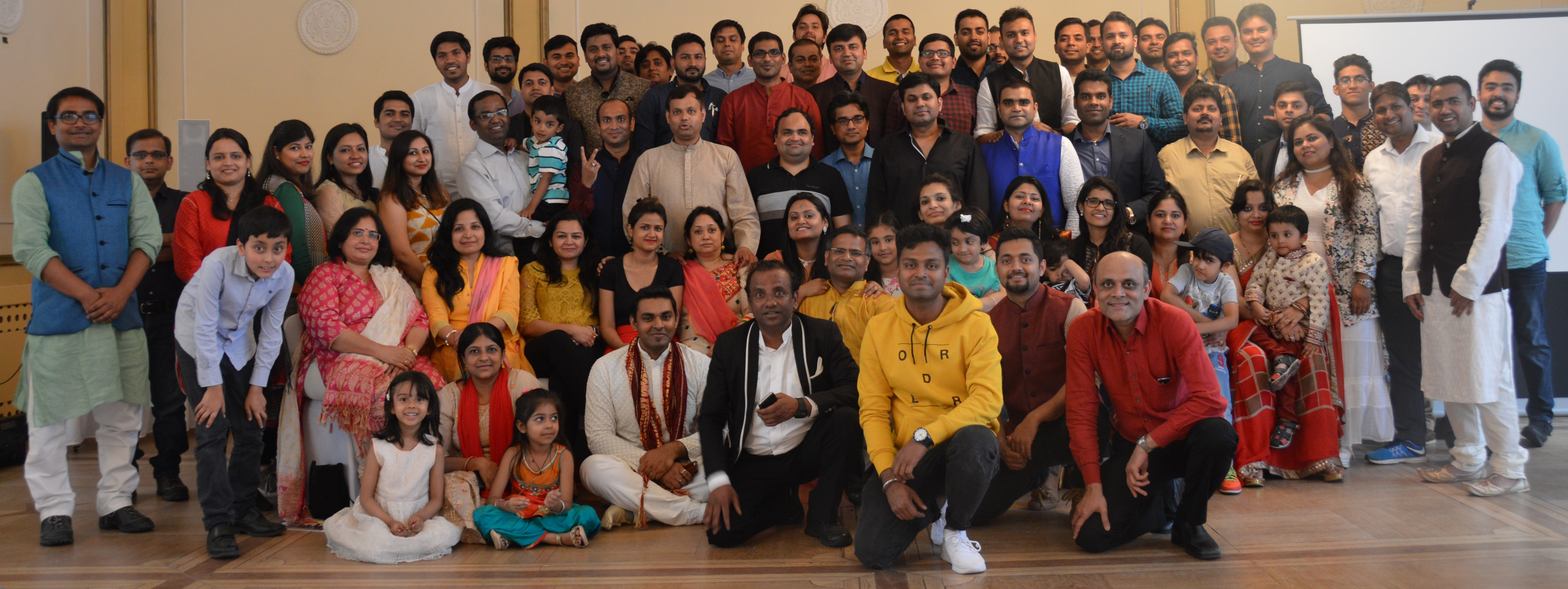
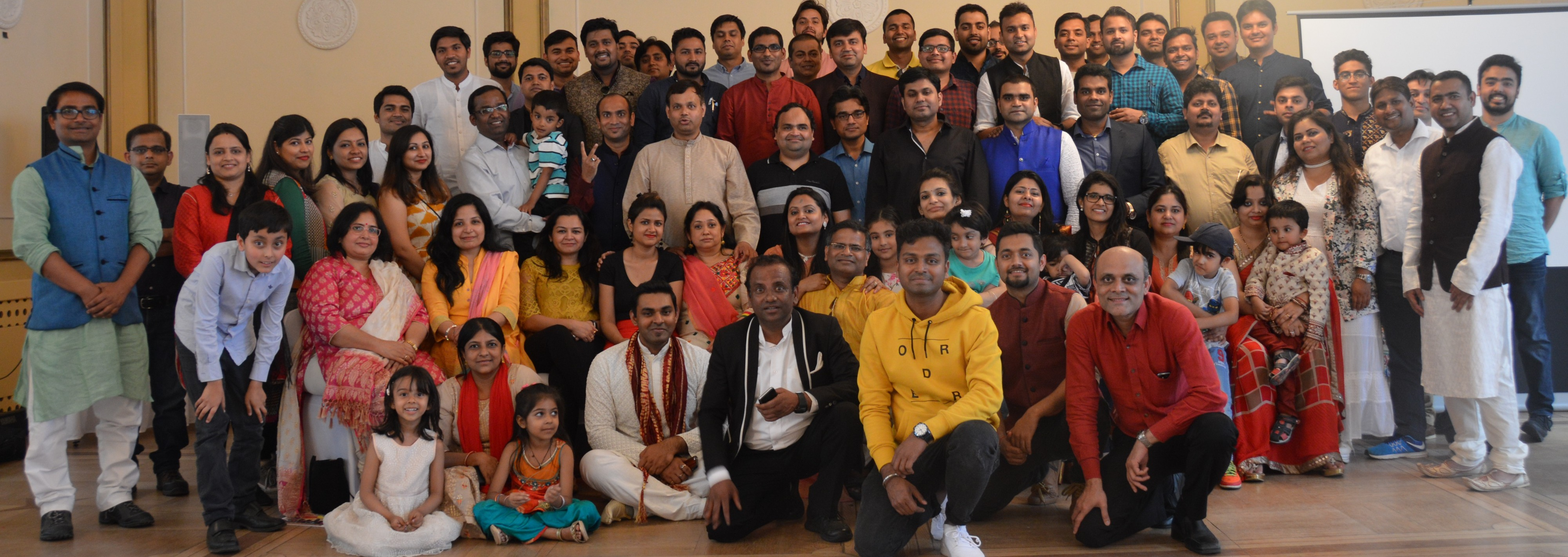
changes

diff --git a/css/main.css b/css/main.css
@@ -61,13 +61,11 @@ span.navbar-toggler-icon.navBarr i {
 .navbarright{
   justify-content: flex-end;
 }
-a.nav-link.navListing:hover{
-  color: #000;
-}
+
 ul.dropdown {
     list-style-type: none;
     display: none; 
-    top: 50px;
+    top: 53px;
     word-break: break-all;
     border: 1px solid #ddd;
     /*box-shadow: 2px 2px 3px #4e4b4b;*/
@@ -100,6 +98,31 @@ a.nav-link.navListing {
     padding: 10px 15px !important;
     color: #006;
 }
+.navbarright ul.navbar-nav li a.nav-link.navListing{
+  position: relative;
+}
+.navbarright ul.navbar-nav li a.nav-link.navListing{
+  position: relative;
+}
+.navbarright ul.navbar-nav li a.nav-link.navListing::after{
+  content: '';
+  position: absolute;
+  left: 50%;
+  right: 50%;
+  bottom: 5px;
+  border-bottom: 2px solid #000066;
+  opacity: 0;
+  -webkit-transition: .5s;
+  -moz-transition: .5s;
+  -o-transition: .5s;
+  transition: .5s;
+}
+.navbarright ul.navbar-nav li a.nav-link.navListing:hover::after{
+  opacity: 1;
+  left: 0;
+  right: 0;
+  border-color: #000066;
+}
 .navListing i{
   color: #006;
   font-size: 12px;
@@ -115,7 +138,47 @@ a.nav-link.navListing {
 .sliders img {
     width: 100%;
 }
-
+.bannersection .owl-carousel .owl-nav{
+  top: 40%;
+  position: absolute;
+  width: 100%;
+}
+.bannersection .owl-carousel .owl-nav .owl-prev:before{
+  content: "\f053";
+  font-size: 26px;
+  position: absolute;
+  height: 70px;
+  width: 40px;
+  display: flex;
+  align-items: center;
+  justify-content: center;
+  border-radius: 0;
+  transition: .3s ease-in;
+  text-align: center;
+  color: #fff;
+  left: 0;
+  background-color: rgb(57, 165, 212,.5);
+  border: 2px solid transparent;
+  font-family: fontAwesome;
+}
+.bannersection .owl-carousel .owl-nav .owl-next:before{
+  content: "\f054";
+  font-size: 26px;
+  position: absolute;
+  height: 70px;
+  width: 40px;
+  display: flex;
+  align-items: center;
+  justify-content: center;
+  border-radius: 0;
+  background-color: rgb(57, 165, 212,.5);
+  border: 2px solid transparent;
+}
+.bannersection .owl-carousel .owl-nav .owl-prev:hover:before{
+  background-color: #fff;
+  border: 2px solid #39a5d4;
+  color: #39a5d4;
+}
 /*--------------------- start About us-----------------------------*/
 .tittlehead{
   color: #39a5d4;
@@ -409,12 +472,39 @@ ul.about-gallery li {
   height: 210px;
   width: 100%;
 }
-.outer-wrap .float-right a {
-    padding: 5px 15px;
+.press-content .text-right{
+  text-align: right !important;
+}
+a.source-link {
+    padding: 3px 13px;
     border-radius: 5px;
     font-size: 18px;
     color: #000066;
+    transition: all 0.5s;
     border: 1px solid #000066;
+}
+a.source-link span {
+  cursor: pointer;
+  display: inline-block;
+  position: relative;
+  transition: 0.5s;
+}
+
+a.source-link span:after {
+  content: '\00bb';
+  position: absolute;
+  opacity: 0;
+  top: 0;
+  right: -20px;
+  transition: 0.5s;
+}
+a.source-link:hover span {
+  padding-right: 15px;
+}
+
+.outer-wrap .text-right a:hover span:after {
+  opacity: 1;
+  right: 0;
 }
 .press-content h3{
   font-size: 20px;
@@ -658,7 +748,7 @@ h2.places-head {
 #footer
 {
     width: 100%;
-    height: 414px;
+    height: 408px;
     
 }
 .footerSection{
@@ -1130,6 +1220,24 @@ section#contact {
   .testimonial-content p{
     font-size: 12px;
   }
+  .sliderRelative{
+    height: unset;
+  }
+  .bannersection .owl-carousel .owl-nav .owl-prev:before{
+    height: 30px;
+    width: 30px;
+    font-size: 16px;
+    background-color: transparent;
+  }
+  .bannersection .owl-carousel .owl-nav .owl-next:before{
+    height: 30px;
+    width: 30px;
+    font-size: 16px;
+    background-color: transparent;
+  }
+  .bannersection .owl-carousel .owl-nav .owl-next:hover:before{
+    border: none;
+  }
 }
 @media (max-width: 420px){
   .m-t-20 {
@@ -1147,9 +1255,13 @@ section#contact {
   .tittlehead {
       font-size: 25px;
   }
+  .sliderRelative img{
+    height: 162px;
+  }
 }
 @media (max-width: 359px){
   .team-section .item {
       height: 250px;
   }
+  
 }

diff --git a/press.php b/press.php
@@ -15,8 +15,8 @@ require('header.php');
 						<div class="press-content">
 							<h3>Bihar Mahotsav 2019' in Germany on June 15</h3>
 							<p>New Delhi, Apr 28 (UNI) More than 350 people are expected to witness 'Bihar Mahotsav 2019' in Germany...</p>
-							<div class="float-right">
-								<a href="http://www.uniindia.com/-bihar-mahotsav-2019-in-germany-on-june-15/india/news/1579458.html" target="_blank">Source</a>
+							<div class="text-right">
+								<a href="http://www.uniindia.com/-bihar-mahotsav-2019-in-germany-on-june-15/india/news/1579458.html" target="_blank" class="source-link"><span>Source</span></a>
 							</div>
 						</div>
 					</div>
@@ -27,8 +27,8 @@ require('header.php');
 						<div class="press-content">
 							<h3>Bihar Fraternity Germany starts ‘Project Jyoti’ for deprived students</h3>
 							<p>New Delhi, May 29 (UNI) With objectives to improve the educational quality of their...</p>
-							<div class="float-right">
-								<a href="http://www.uniindia.com/bihar-fraternity-germany-starts-project-jyoti-for-deprived-students/india/news/1245179.html" target="_blank">Source</a>
+							<div class="text-right">
+								<a href="http://www.uniindia.com/bihar-fraternity-germany-starts-project-jyoti-for-deprived-students/india/news/1245179.html" target="_blank" class="source-link"><span>Source</span></a>
 							</div>
 						</div>
 					</div>
@@ -39,8 +39,8 @@ require('header.php');
 						<div class="press-content">
 							<h3>Bihar Fraternity Germany starts ‘Project Jyoti’ for deprived students</h3>
 							<p>With objectives to improve the educational quality of their state, people from Bihar....</p>
-							<div class="float-right">
-								<a href="https://www.indiasentinels.com/2018/05/29/bihar-fraternity-germany-starts-project-jyoti-for-deprived-students/" target="_blank">Source</a>
+							<div class="text-right">
+								<a href="https://www.indiasentinels.com/2018/05/29/bihar-fraternity-germany-starts-project-jyoti-for-deprived-students/" target="_blank" class="source-link"><span>Source</span></a>
 							</div>
 						</div>
 					</div>
@@ -51,8 +51,8 @@ require('header.php');
 						<div class="press-content">
 							<h3>जर्मनी में भी जय-जय बिहार, 26 मई को मनाया जाएगा बिहार दिवस</h3>
 							<p>पटना: जर्मनी के शहर बर्लिन में 26 मई को बिहार दिवस मनाया जाएगा। जर्मनी में रह रहे बिहार के लोगों ने बर्लिन में 'बिहार फ्रेटर्निटी जर्मनी' के बैनर तले इस खास ...</p>
-							<div class="float-right">
-								<a href="https://hindi.indiatvnews.com/india/national-bihar-diwas-to-be-celebrated-in-berlin-city-germany-on-26th-may-bihar-fraternity-germany-583394" target="_blank">Source</a>
+							<div class="text-right">
+								<a href="https://hindi.indiatvnews.com/india/national-bihar-diwas-to-be-celebrated-in-berlin-city-germany-on-26th-may-bihar-fraternity-germany-583394" target="_blank" class="source-link"><span>Source</span></a>
 							</div>
 						</div>
 					</div>
@@ -63,8 +63,8 @@ require('header.php');
 						<div class="press-content">
 							<h3>जर्मनी में मनेगा बिहार दिवस, अपनी जड़ों को याद करेंगे प्रवासी</h3>
 							<p>सात समंदर पार रह रहे बिहारी मूल के लोगों को एक कड़ी में जोड़ने के प्रयासों के तहत जर्मनी में 26 मई को 'बिहार दिवस' मनाया...</p>
-							<div class="float-right">
-								<a href="https://navbharattimes.indiatimes.com/state/bihar/patna/bihar-diwas-to-be-celebrated-in-germany/articleshow/63531418.cms" target="_blank">Source</a>
+							<div class="text-right">
+								<a href="https://navbharattimes.indiatimes.com/state/bihar/patna/bihar-diwas-to-be-celebrated-in-germany/articleshow/63531418.cms" target="_blank" class="source-link"><span>Source</span></a>
 							</div>
 						</div>
 					</div>

diff --git a/footer.php b/footer.php
@@ -126,6 +126,22 @@ require('header.php');
     <script src='https://www.google.com/recaptcha/api.js'></script>
     <script type="text/javascript">
         $(document).ready(function() {
+          var owl = $('#bannerSlider');
+             owl.owlCarousel({
+              loop: true,
+              nav: true,
+              items: 1,
+              margin:30,
+              dots: false,
+              autoplaySpeed: 2000,
+              autoplay:true,
+              autoplayTimeout:1000,
+              autoplayHoverPause:true,
+              
+          });
+
+    /*-----------------------gallery slider----------------------------*/
+
          var owl = $('#galleryslider');
            owl.owlCarousel({
             loop: true,
@@ -259,6 +275,8 @@ require('header.php');
               owl.trigger('stop.owl.autoplay')
           });
 
+
+
          /*-----------------------End Gallery slider------------------------------------*/
 
         $(document).ready(function() {
@@ -316,7 +334,7 @@ require('header.php');
      var footerTop = $('#footer').position().top + footerHeight;
 
      if (footerTop < docHeight) {
-      $('#footer').css('margin-top', 5+ (docHeight - footerTop) + 'px');
+      $('#footer').css('margin-top', 2+ (docHeight - footerTop) + 'px');
      }
     });
    </script>

diff --git a/index.php b/index.php
@@ -4,7 +4,14 @@ require('header.php');
 	
 	<section class="bannersection">
 		<div class="sliders sliderRelative">
-			<img src="images/banner.jpg" class="img-responsive">
+			<div class="owl-carousel" id="bannerSlider">
+				<div class="item">
+					<img src="images/banner.jpg" class="img-responsive" alt="banner">
+				</div>
+				<div class="item">
+					<img src="images/BiharDiwas_Berlin_Group.jpg" alt="banner" class="img-responsive">
+				</div>
+			</div>
 		</div>
 	</section>
 	<section class="about-us-section backgroundwhite ">
